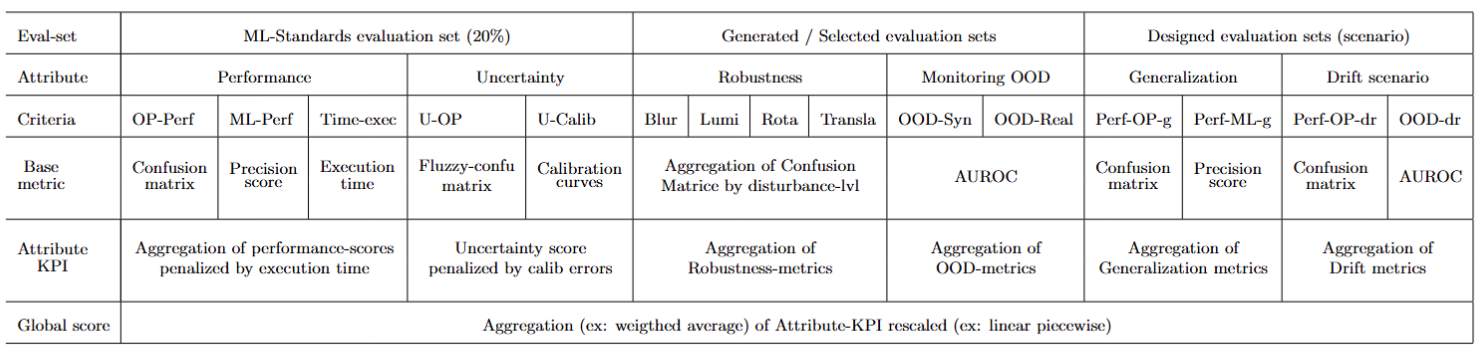
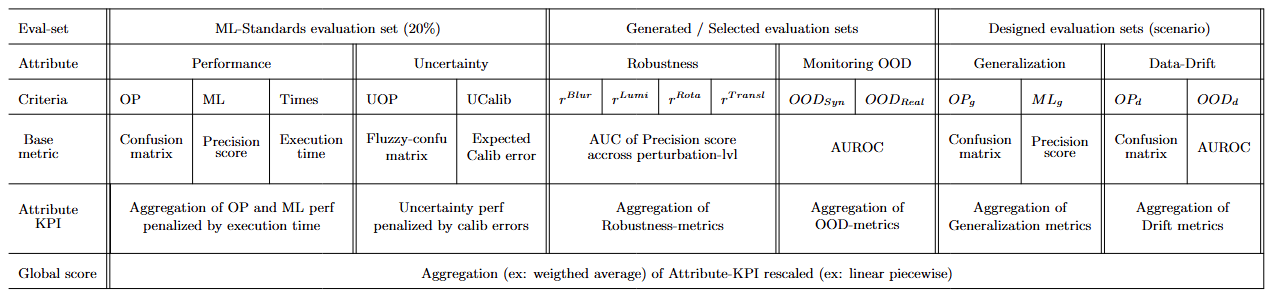
corrected content of evaluation page

Changed region(s): [[0.0, 0.0, 1.0, 1.0]]

diff --git a/documentation/docs/evaluation/readme.md b/documentation/docs/evaluation/readme.md
@@ -52,6 +52,9 @@ After identifying the relevant **trust attributes** (e.g., *robustness*) associa
 
 The aggregation process consists in several key steps:
 
+In this section, $\alpha_{i}$ $\beta_{i}$ and $k_{i}$ are weigthing or scaling coeficients used for the multicriterions aggregation.
+
+
 ### 1. Computation of Metrics Related to Trust Attributes
 
 - Several metrics are computed for each attribute using specific evaluation datasets, in order to capture different aspects of the attribute’s performance.
@@ -62,15 +65,14 @@ The aggregation process consists in several key steps:
 - All attribute-specific metrics are normalized to a score within the range \[0, 1\], where **1** represents the best possible performance.
 - Normalization is performed using appropriate transformations (e.g., sigmoid functions, exponential decay), depending on the nature of each metric.
 
-Example normalization functions:
-$$OP_{score} = e^{-k \cdot M_{OP-P}}$$
-
 ### 3. Trust-KPI Aggregation
 
-- For each attribute, a specific aggregation function combines the normalized metrics into a single **trust-KPI**.
+- For each attribute denoted X, a specific aggregation function combines the k-th normalized X metrics into a single **trust-KPI** denoted $I_X$.
 - This allows for a comprehensive representation of the model’s performance with respect to each trust attribute.
 
-$$KPI_{X} = agg({metric}_{X^1},..,{Xmetric}_{X^k})$$
+$$ I_X = agg(X_{metric_1},..,X_{metric_k})$$
+
+For example, if X is the attribute "performance":  $X_{metric_1}=OP$, $X_{metric_2}=ML$, and $X_{metric_3}=Time$
 
 ### 4.Piecewise Linear Rescaling of Trust-KPIs
 
@@ -88,7 +90,7 @@ $$f'(x) =
 ### 5. Weighted Aggregation of Trust-KPIs
   - The rescaled attribute KPIs are then aggregated into a **final evaluation score** using a **weighted mean**.
   - Each weight reflects the relative importance of its corresponding attribute within the overall trustworthy AI assessment.
-$$\alpha_1*I^{perf} + \alpha_2*I^{U} + \alpha_3*I^{Rob} + \alpha_4*I^{ood} + \alpha_5*I^{gen}+\alpha_6*I^{drift}$$
+$$ score= \alpha_1*I_{perf} + \alpha_2*I_{U} + \alpha_3*I_{rob} + \alpha_4*I_{ood} + \alpha_5*I_{gen}+\alpha_6*I_{drift}$$
 
 ### 6. Purpose of the Aggregation Protocol
 
@@ -105,13 +107,23 @@ The goal of this aggregation process is to produce a single, comprehensive trust
 **Metrics**:
   - **OP-Perf** (Operational Performance): Evaluates model performance through an operational view using confusion-matrix-based metrics that account for the cost of different error types and weld criticality.
 
-       $$ex : c^{op} = \sum_{k}^{|N|} \sum_{i}^{true_{class}} \sum_{j}^{pred_{class}} \mathbb{1}_{Top_{class}(\hat{y}_k)=j} * cost(i,j,k,k_{seam}) $$
+       $$OP = \sum_{k}^{|N|} \sum_{i}^{true_{class}} \sum_{j}^{pred_{class}} \mathbb{1}_{Top_{class}(\hat{y}_k)=j} * cost(i,j,k,k_{seam}) $$
+
+  where N is the number of sample in the evaluation datasset and $k_{seams}$ is the name of the welding-seam
+
+
   - **ML-Perf** (Machine Learning Performance): Assesses performance using standard ML metrics such as precision.
-    $$ex : s^{ml} = \frac{\sum_{i=1}^{N} \mathbb{1} (y_i = 1 \land \hat{y}_i = 1)}{\sum_{i=1}^{N} \mathbb{1} (\hat{y}_i = 1)}$$
+    $$ ML = \frac{\sum_{i=1}^{N} \mathbb{1} (y_i = 1 \land \hat{y}_i = 1)}{\sum_{i=1}^{N} \mathbb{1} (\hat{y}_i = 1)}$$
+
+where $y_i$ is the ground truth and $\hat{y}_i$ is the AI component prediction
+
+
   - **Inference Time (Times)**: Measures computational efficiency and runtime.
 
 **Performance-KPI**: Combines OP-Perf and ML-Perf using a weighted average, penalized by inference time to reflect operational constraints.
-$$ I^{Perf}=\frac{(\alpha_{op} e^{-k_c c^{op}} + \alpha_{ml} s^{ml})}{1 + k_t ln(1+t)} $$
+$$ I_{perf}=\frac{(\alpha_{op} e^{-k_c OP} + \alpha_{ml} ML)}{1 + k_t ln(1+t)} $$
+
+where $t$ is the inference time
 
 ### Uncertainty assessement
 **Purpose** : Evaluates the AI component’s ability to express meaningful and calibrated uncertainty, helping assess the risk of decision errors.
@@ -120,15 +132,17 @@ $$ I^{Perf}=\frac{(\alpha_{op} e^{-k_c c^{op}} + \alpha_{ml} s^{ml})}{1 + k_t ln
 
 **Metrics**:
   - **U-OP** (Uncertainty Operational Gain): Relative measures of the virtual gain (in operational term) to consider probabilistic outputs compared to hard outputs predictions in relation to the gap between the perfect solution and the current hard outputs predictions.
-  $$ex : c^{U} = \sum_{k}^{|N|} \sum_{i}^{true_{class}} \sum_{j}^{pred_{class}} \hat{y}_k(j) * cost(i,j,k,k_{seam}) $$
+  $$c^{U} = \sum_{k}^{|N|} \sum_{i}^{true_{class}} \sum_{j}^{pred_{class}} \hat{y}_k(j) * cost(i,j,k,k_{seam}) $$
 
-  $$ U^{op} = \frac{(c^{U} - c^{op})}{(c^{op} - c^{op}_{perfect})}$$
+  $$ UOP = \frac{(c^{U} - c^{op})}{(c^{op} - c^{op}_{perfect})}$$
 
   - **U-Calib** (Calibration Quality): Evaluates how well predicted probabilities align with actual error rates (e.g., Expected Calibration Error).
-    $$ex : \beta^U = \sum_{m=1}^{M} \frac{|B_m|}{N} acc(B_m) - conf(B_m)\ \text{ECE}$$
+    $$ UCalib = \sum_{m=1}^{M} \frac{|B_m|}{N} acc(B_m) - conf(B_m)$$
+
+Fore more information, see Expected calibration error definition :  lien wiki
 
 **Uncertainty-KPI** : Combines Uncertainty Operational Gain with calibration error.
-$$I^{U} = e^{k_u*U^{op}} * (1 - \beta^U)^{k_{\beta}} $$
+$$I_{U} = e^{k_{UOP}} * (1 - UCalib)^{k_{UCalib}} $$
 
 ### Robustness
 **Purpose**: Assesses model stability under perturbations such as blur, lighting variation, rotation, and translation.
@@ -138,15 +152,18 @@ $$I^{U} = e^{k_u*U^{op}} * (1 - \beta^U)^{k_{\beta}} $$
 ![image](./images/Blur_illu.png)
 
 **Metrics**:
-   - **Blur Robustness** : Aggregation (AUC) of the ML-performance (Precision score) across increasing perturbation levels.
+   - **Blur Robustness** : Aggregation (AUC) of the ML-performance (Precision score) across increasing perturbation levels .
    - **Luminance Robustness** : Aggregation (AUC) of the ML-performance (Precision score) across increasing perturbation levels.
    - **Rotation Robustness** : Aggregation (AUC) of the ML-performance (Precision score) across increasing perturbation levels.
    - **Translation Robustness**: Aggregation (AUC) of the ML-performance (Precision score) across increasing perturbation levels.
-$$ex : r^x = Auc(s^ML_{/delta_1}/,..., s^ML_{/delta_k}) $$ 
+
+$$ r^x = Auc(ML_{\delta_1}/,..., ML_{\delta_k}) $$ 
+
+where $x\in \{blur,lum,rot,trans\}$ and $\delta_k$ are the different perturbation levels
 
 **Robustness-KPI** : Weighted aggregation of robustness scores across all perturbation types.
 
-$$ I^{Rob} = \sum_{i \in {blur,lum,rot,trans}} \alpha_{r_i} * r^i $$ 
+$$ I_{rob} = \sum_{i \in {blur,lum,rot,trans}} \alpha_{r_i} * r^i $$ 
 
 ### OOD-Monitoring 
 
@@ -157,13 +174,12 @@ $$ I^{Rob} = \sum_{i \in {blur,lum,rot,trans}} \alpha_{r_i} * r^i $$
 ![image](./images/Ood_illu.png)
 
 **Metrics**
-  - **Real-OOD score** : AUROC on the real OOD evaluation set.
-  - **Syn-OOD score** :AUROC on the synthetic OOD evaluation set.
+  - **Real-OOD score** : AUROC on the real OOD evaluation set denoted $OOD_{real}$.
+  - **Syn-OOD score** :AUROC on the synthetic OOD evaluation set $OOD_{syn}$.
   
-	$$ex : s^{ood}_x = \frac{1}{N_{\text{ID}} N_{\text{OOD}}} \sum_{i=1}^{N_{\text{OOD}}} \sum_{j=1}^{N_{\text{ID}}} \mathbb{1}(\hat{s}^{ood}_i > \hat{s}^{ood}_j)\ (\text{AUROC})$$ 
 
 **OOD-Monitoring KPI**: Weighted average of real and synthetic OOD detection performance.
-$$I^{ood} = \alpha_{syn}*s^{ood}_{syn} + \alpha_{real}*s^{ood}_{real}$$
+$$I_{ood} = \alpha_{syn}*OOD_{syn} + \alpha_{real}*OOD_{real}$$
 
 ### Generalization 
 **Purpose**: Measures the model’s ability to generalize to unseen weld types that share characteristics with the training set.
@@ -177,7 +193,9 @@ $$I^{ood} = \alpha_{syn}*s^{ood}_{syn} + \alpha_{real}*s^{ood}_{real}$$
   - **ML-Perf-g** ML performance (e.g., precision) on the generalization set.
 
 **Generalization-KPI**: Aggregated from OP-Perf-g and ML-Perf-g.
-$$I^{gen} = \alpha_{op}*e^{-k_c c^{op}_g} + \alpha_{ml}*s^{ml}_{g}$$
+$$I_{gen} = \alpha_{op}*e^{-k_{op}*OP_g} + \alpha_{ml}*ML_{g}$$
+
+Subindice $g$ in $ML_g$ or $OP_g$ means that metrics are computed on the generalization dataset.
 
 ### Data-Drift handling
 **Purpose**: Evaluates both the robustness and OOD detection of the model in response to gradual data drift.
@@ -191,4 +209,7 @@ $$I^{gen} = \alpha_{op}*e^{-k_c c^{op}_g} + \alpha_{ml}*s^{ml}_{g}$$
   - OOD-d: "OOD-Detection score" : AUROC on the drift-induced OOD subset.  
 
 **Data-Drift-KPI**: Combines performance and detection ability during simulated drift.
-$$I^{Drift} = e^{-k_{op} * c^{op}_{drift}} + s^{ood}_{drift}$$
+$$I_{drift} = \alpha_{OP_{d}} * e^{-k_{op} * OP_{d}} + \alpha_{OOD_{d}}*OOD_{d}$$
+
+
+where subindice $d$ means that the metrics are computed only on the drifted dataset
